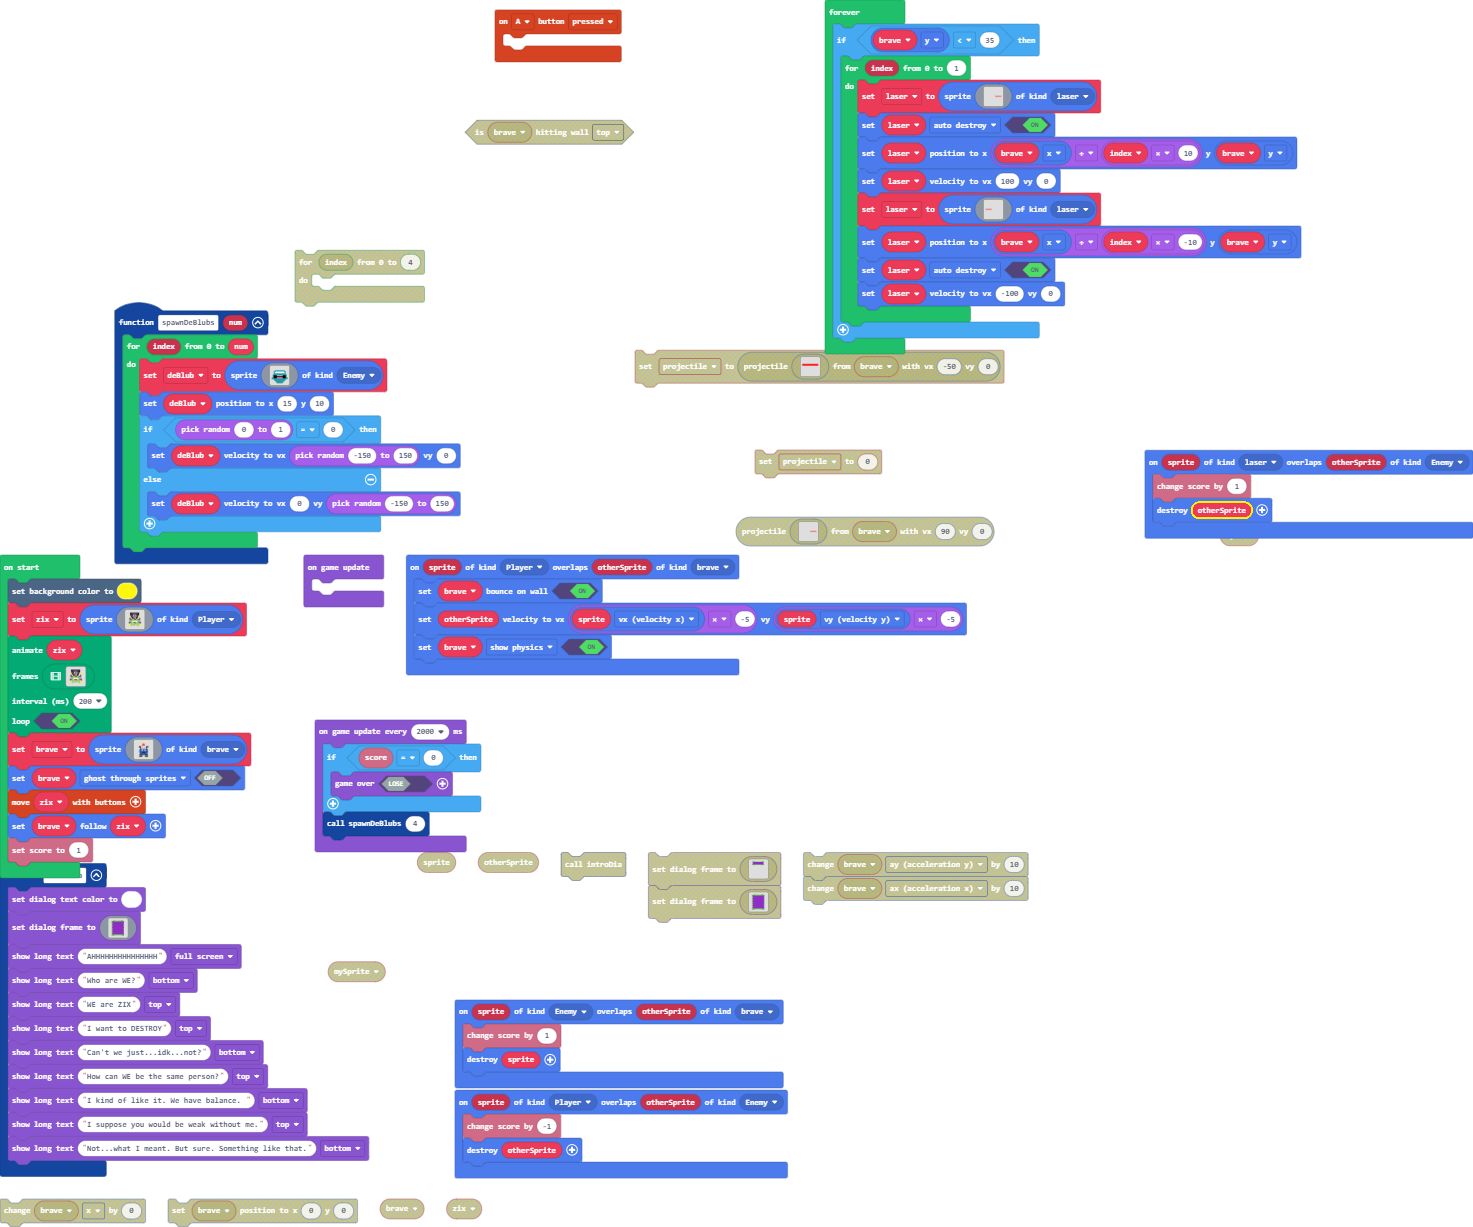
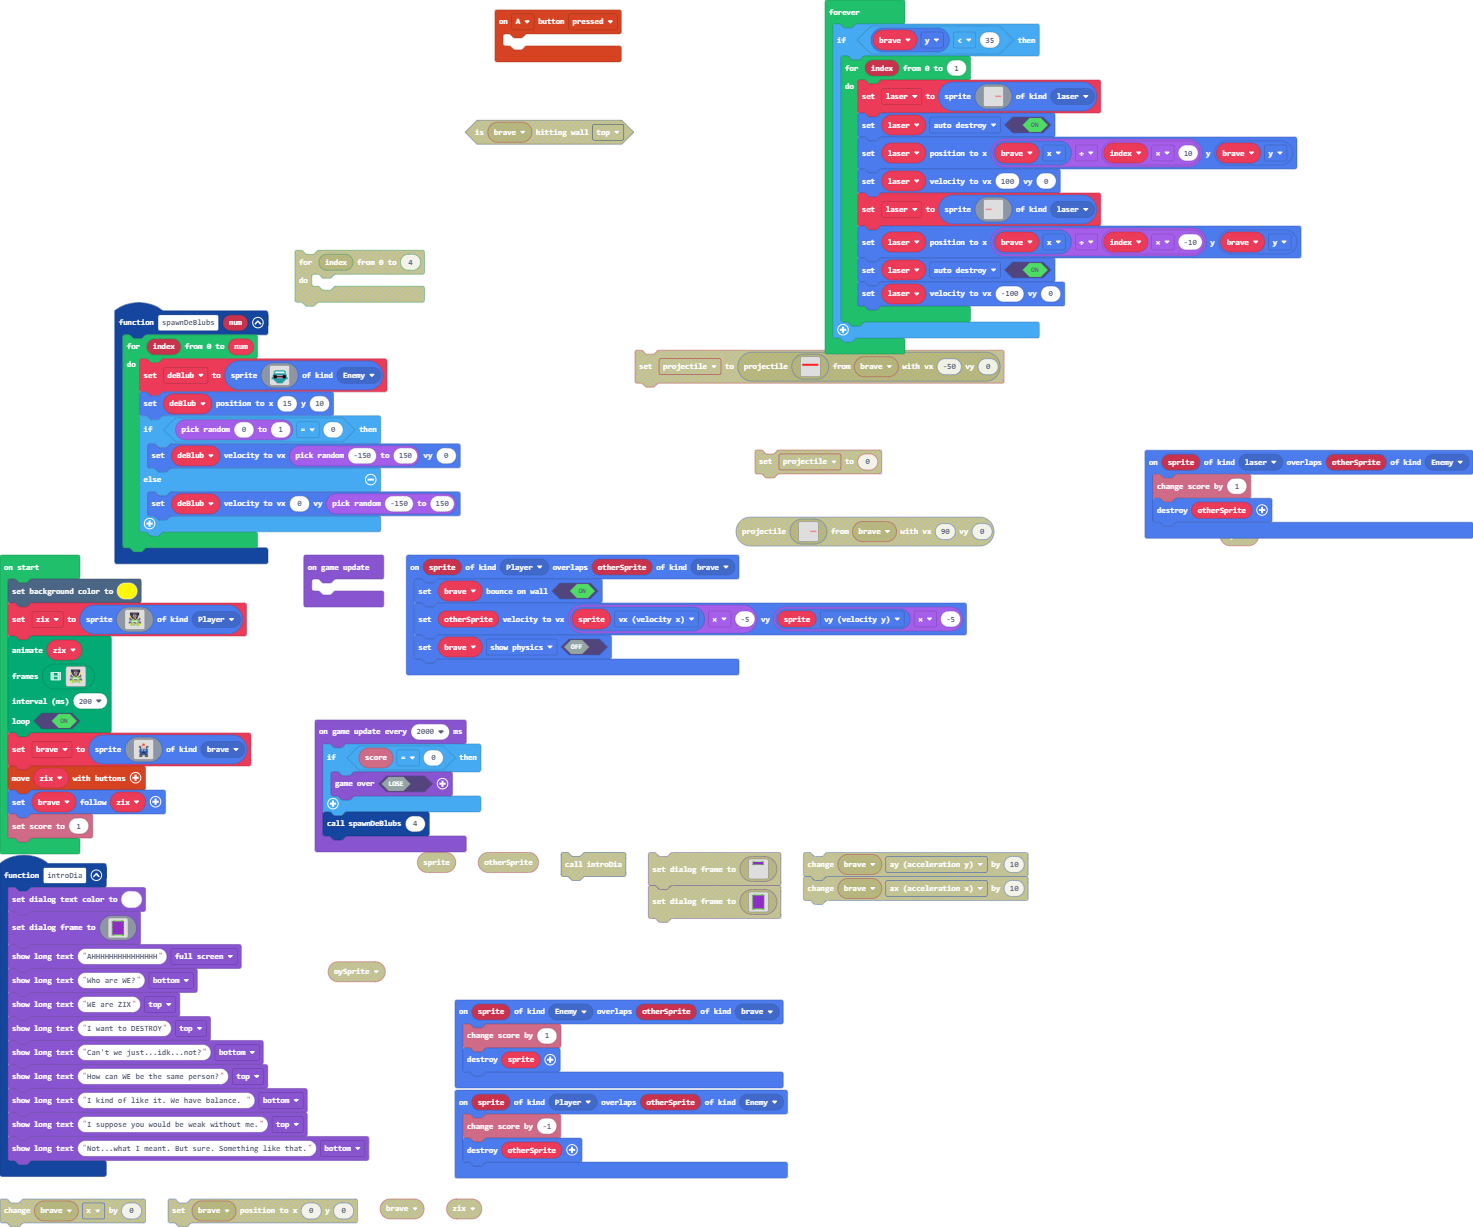
Update main.blocks, main.ts

Changed region(s): [[0.0, 0.6194, 0.1874, 0.7433], [0.3747, 0.4955, 0.406, 0.5575], [0.8119, 0.4026, 0.8432, 0.4336]]

diff --git a/main.ts b/main.ts
@@ -54,7 +54,7 @@ function introDia () {
 sprites.onOverlap(SpriteKind.Player, SpriteKind.brave, function (sprite, otherSprite) {
     brave.setBounceOnWall(true)
     otherSprite.setVelocity(sprite.vx * -5, sprite.vy * -5)
-    brave.setFlag(SpriteFlag.ShowPhysics, true)
+    brave.setFlag(SpriteFlag.ShowPhysics, false)
 })
 sprites.onOverlap(SpriteKind.Enemy, SpriteKind.brave, function (sprite, otherSprite) {
     info.changeScoreBy(1)
@@ -91,7 +91,6 @@ assets.animation`myAnim`,
 true
 )
 brave = sprites.create(assets.image`brave`, SpriteKind.brave)
-brave.setFlag(SpriteFlag.GhostThroughSprites, false)
 controller.moveSprite(zix)
 brave.follow(zix)
 info.setScore(1)
